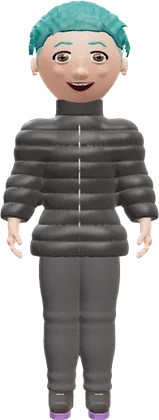
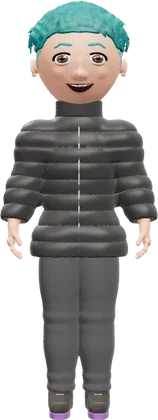
Hair, creative category: soft ribbon highlights; pictures re-rendered
- Highlights: one or two thin, soft-edged ribbons per lock fading in from
  the root (were blotchy patches); streaks follow the lock ribbons
- Starter-character and welcome pictures re-rendered with every category's
  detail pass (short, medium, long, updos, curly, creative)
- Thumbnail cache v24

Claude-Session: https://claude.ai/code/session_011n7UBMF7siA6WHFHfiWuWV

diff --git a/src/features/avatar/render/SculptHair.tsx b/src/features/avatar/render/SculptHair.tsx
@@ -38,8 +38,8 @@ vec3 hairBase(float t, float rnd, vec3 pos) {
   vec3 c = mix(uRoot, uTip, smoothstep(0.3, 1.0, t));
   if (uPaint > 0.5 && uPaint < 1.5) c = mix(uRoot, uTip, smoothstep(-0.02, -0.12, pos.y));            // two-tone: under-layer
   else if (uPaint > 1.5 && uPaint < 2.5) c = mix(uRoot, uTip, smoothstep(0.15, 0.85, t));             // ombré
-  else if (uPaint > 2.5 && uPaint < 3.5) c = mix(c, uHi, step(rnd, 0.45) * hiBand * 0.75 * smoothstep(0.0, 0.25, t)); // highlights: fine ribbons
-  else if (uPaint > 3.5 && uPaint < 4.5) c = mix(c, uHi, step(rnd, 0.12));                             // streaks
+  else if (uPaint > 2.5 && uPaint < 3.5) c = mix(c, uHi, step(rnd, 0.55) * hiBand * 0.7); // highlights: fine ribbons
+  else if (uPaint > 3.5 && uPaint < 4.5) c = mix(c, uHi, step(rnd, 0.14) * (0.55 + 0.45 * hiBand));                             // streaks
   else if (uPaint > 4.5 && uPaint < 5.5) c = mix(uRoot, uTip, step(0.0, pos.x));                       // split dye
   else if (uPaint > 5.5) c = mix(c, uHi, step(rnd, 0.45) * hiBand * 0.6);                                      // lowlights
   return c * (0.9 + 0.2 * rnd);
@@ -73,7 +73,8 @@ vHairT = normalize(normalMatrix * hairT);`,
 #ifdef USE_COLOR
   float hT = vColor.g, hR = vColor.b;
   // highlight ribbons: 1–2 narrow stripes along a lock, not the whole lock
-  hiBand = smoothstep(0.55, 0.8, sin(vHUv.x * 6.2832 * 2.0 + hR * 9.0) * 0.5 + 0.5);
+  // one or two thin, soft-edged ribbons per lock, fading in from the root
+  hiBand = smoothstep(0.7, 0.95, sin(vHUv.x * 6.2832 * 2.0 + hR * 9.0) * 0.5 + 0.5) * smoothstep(0.05, 0.35, hT);
   vec3 hc = hairBase(hT, hR, vHairPos);
   // fine strands across the clump, varying slowly along it
   float st = hNoise(vec2(vHUv.x * 9.0 + hR * 57.0, hT * 3.0 + hR * 11.0)) * 0.6 + hNoise(vec2(vHUv.x * 23.0 + hR * 13.0, hT * 7.0)) * 0.4;

diff --git a/src/features/avatar/editor/thumbs.tsx b/src/features/avatar/editor/thumbs.tsx
@@ -54,7 +54,7 @@ const cache = new Map<string, string>();
  * opens instantly on later visits. Bump the version whenever the renderer
  * changes how variants look.
  */
-const STORE = 'snv-thumbs-v23';
+const STORE = 'snv-thumbs-v24';
 const storeKey = (key: string) => `/__thumb/${encodeURIComponent(key)}`;
 async function fromStore(key: string): Promise<string | null> {
   try {
